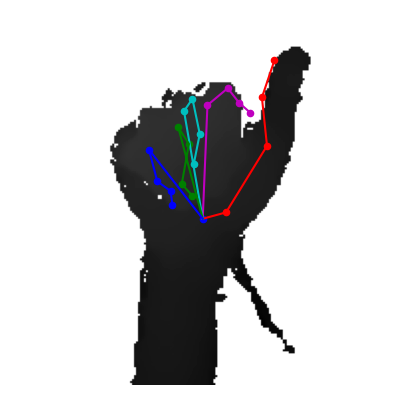
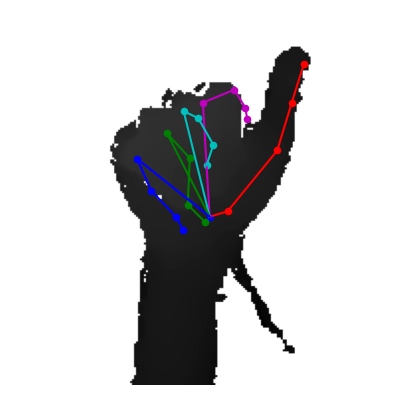
Custom dataset tf pipeline

Changed region(s): [[0.33, 0.18, 0.75, 0.6], [0.54, 0.12, 0.69, 0.33], [0.75, 0.15, 0.78, 0.18]]

diff --git a/src/datasets/custom/dataset.py b/src/datasets/custom/dataset.py
@@ -1,0 +1,63 @@
+import tensorflow as tf
+import numpy as np
+import src.utils.plots as plots
+
+from src.utils.paths import CUSTOM_DATASET_DIR
+
+
+class CustomDataset:
+
+    def __init__(self, dataset_path, batch_size, shuffle=True):
+        self.dataset_path = dataset_path
+        self.batch_size = batch_size
+        self.shuffle = shuffle
+        sequence_annotations = self._get_sequence_annotations()
+        filepaths, labels = self._get_line_annotations(sequence_annotations)
+        self.num_batches = int(len(filepaths) // batch_size)
+        self.dataset = self._build_dataset(filepaths, labels)
+
+    def _get_sequence_annotations(self):
+        path = self.dataset_path.joinpath('annotations.txt')
+        annotations = np.genfromtxt(path, delimiter=' ', dtype=str)
+        return annotations
+
+    def _get_line_annotations(self, annotations):
+        folder_names = annotations[..., 0]
+        gesture_label = annotations[..., 1]
+        file_names = []
+        file_labels = []
+        for i in range(annotations.shape[0]):
+            folder_path = self.dataset_path.joinpath(folder_names[i])
+            files = np.array(list(folder_path.iterdir()), dtype=str)
+            labels = np.full(shape=[files.shape[0]], fill_value=gesture_label[i])
+            file_names.append(files)
+            file_labels.append(labels)
+        file_names = np.concatenate(file_names)
+        file_labels = np.concatenate(file_labels)
+        return file_names, file_labels
+
+    def _build_dataset(self, images, labels):
+        ds = tf.data.Dataset.from_tensor_slices((images, labels))
+        if self.shuffle:
+            ds = ds.shuffle(buffer_size=len(images), reshuffle_each_iteration=True)
+        ds = ds.map(self._prepare_sample)
+        ds = ds.batch(self.batch_size)
+        ds = ds.prefetch(buffer_size=1)
+        return ds
+
+    def _prepare_sample(self, image_path, label):
+        image = tf.io.read_file(image_path)
+        image = tf.io.decode_image(image, channels=1, dtype=tf.uint16)
+        image.set_shape([480, 640, 1])
+        return image, label
+
+
+if __name__ == '__main__':
+    ds = CustomDataset(CUSTOM_DATASET_DIR, batch_size=4, shuffle=True)
+    iterator = iter(ds.dataset)
+    batch_images, batch_labels = next(iterator)
+
+    for image, label in zip(batch_images, batch_labels):
+        image = tf.squeeze(image)
+        plots.plot_depth_image(image)
+        print(label)

diff --git a/src/main.py b/src/main.py
@@ -5,8 +5,8 @@ from src.position_estimation import HandPositionEstimator
 
 def plot_estimation_on_custom_dataset():
     # Gesture 1
-    for j in range(3, 18):
-        estimator.inference_from_file(str(CUSTOM_DATASET_DIR.joinpath(F"20210326-230536/{j}0.png")))
+    # for j in range(3, 18):
+    #    estimator.inference_from_file(str(CUSTOM_DATASET_DIR.joinpath(F"20210326-230536/{j}0.png")))
 
     # Gesture 1, but fingers are not stretched
     # for j in range(1, 6):  # up to 21
@@ -38,9 +38,9 @@ def plot_estimation_on_custom_dataset():
     #   estimator.inference_from_file(str(CUSTOM_DATASET_DIR.joinpath(F"20210326-232751/50{j}.png")))
 
     # Alphabet
-    # for j in range(1, 11):
-    #     estimator.inference_from_file(str(CUSTOM_DATASET_DIR.joinpath(F"20210326-232751/{j}00.png")))
-    #     estimator.inference_from_file(str(CUSTOM_DATASET_DIR.joinpath(F"20210326-232751/{j}50.png")))
+    for j in range(1, 11):
+        estimator.inference_from_file(str(CUSTOM_DATASET_DIR.joinpath(F"20210326-232751/{j}00.png")))
+        estimator.inference_from_file(str(CUSTOM_DATASET_DIR.joinpath(F"20210326-232751/{j}50.png")))
 
 
 def save_estimations_on_bighand():
@@ -69,19 +69,19 @@ def get_figures_filenames(image_files):
 
 def plot_estimation_on_bighand():
     for i in range(1):
-        for j in range(1, 9):
+        for j in range(1, 5):
             estimator.inference_from_file(str(BIGHAND_DATASET_DIR.joinpath(
                 F"Subject_1/226 300/image_D000{i}{j}000.png")))
 
 
 if __name__ == '__main__':
-    dataset = 'bighand'
-    estimator = HandPositionEstimator(Camera(dataset), cube_size=200, plot_detection=False,
+    dataset = 'custom'
+    estimator = HandPositionEstimator(Camera(dataset), cube_size=230, plot_detection=False,
                                       plot_estimation=True, plot_skeleton=True)
 
     if dataset == 'bighand':
-        save_estimations_on_bighand()
-        # plot_estimation_on_bighand()
+        # save_estimations_on_bighand()
+        plot_estimation_on_bighand()
     else:
         plot_estimation_on_custom_dataset()
     # estimator.detect_live()

diff --git a/src/live.py b/src/live.py
@@ -3,29 +3,41 @@ from src.acceptance.predict import GestureAccepter
 from src.position_estimation import HandPositionEstimator
 from src.utils.camera import Camera
 from src.utils.live import generate_live_images
+import src.utils.plots as plots
 
 
-class LiveGestureRecognizer:
+class GestureRecognizer:
 
     def __init__(self, error_thresh, plot_feedback=False):
         self.plot_feedback = plot_feedback
         camera = Camera('sr305')
         self.estimator = HandPositionEstimator(camera, cube_size=230)
-        self.live_generator = generate_live_images()
         self.gesture_database = database.load_gestures()
         orientation_thres = 35
         self.gesture_accepter = GestureAccepter(self.gesture_database, error_thresh, orientation_thres)
 
-    def start(self):
-        for image_array in self.live_generator:
-            joints_xyz = self.estimator.inference_from_image(image_array, return_xyz=True)
+    def start(self, image_generator):
+        for image_array in image_generator:
+            joints_uvz = self.estimator.inference_from_image(image_array, return_xyz=True)
+            joints_xyz = self.camera.pixel_to_world(joints_uvz)
             self.gesture_accepter.accept_gesture(joints_xyz)
             # get the gesture label
-
+            gesture_index = self.gesture_accepter.predicted_gesture_idx
+            gesture_label = self.gesture_database.get_label(gesture_index)
+            print(gesture_label)
             # plot the hand position with gesture label
+            plots.plotHandSkeletonWithGesture(joints_uvz, gesture_label)
 
+def recognize_live():
+    generator = generate_live_images()
+    live_acceptance = GestureRecognizer()
+    live_acceptance.start(generator)
+
+def recognize_from_custom_dataset():
+    generator = CustomDataset()
+    live_acceptance = GestureRecognizer()
+    live_acceptance.start(generator)
 
 
 if __name__ == '__main__':
-    live_acceptance = LiveGestureRecognizer()
-    live_acceptance.start()
+    recognize_from_custom_dataset()

diff --git a/src/estimation/com_preprocessing.py b/src/estimation/com_preprocessing.py
@@ -7,6 +7,7 @@ from skimage import exposure
 from scipy import stats
 import numpy as np
 from src.utils.paths import DOCS_DIR
+from src.utils.config import OTSUS_ALLOWANCE_THRESHOLD
 
 
 class ComPreprocessor:
@@ -167,8 +168,8 @@ class ComPreprocessor:
                 print('Threshold:', threshold_depth)
                 plot_depth_image_histogram(image_above_min_numpy, True)
                 print(F"{threshold_frequency}/{peak_frequency}={float(threshold_frequency) / peak_frequency}")
-            ALLOWANCE_THRESHOLD = 0.03
-            if float(threshold_frequency) / peak_frequency < ALLOWANCE_THRESHOLD:
+
+            if float(threshold_frequency) / peak_frequency < OTSUS_ALLOWANCE_THRESHOLD:
                 # image_np[image_np > threshold_depth] = 0
                 image = tf.where(image > threshold_depth, 0, image)
                 image = tf.convert_to_tensor(image)

diff --git a/src/position_estimation.py b/src/position_estimation.py
@@ -61,7 +61,8 @@ class HandPositionEstimator:
         # weights_path = LOGS_DIR.joinpath("20210409-033315/train_ckpts/weights.20.h5")  # batch size 32
         # weights_path = LOGS_DIR.joinpath("20210409-031509/train_ckpts/weights.12.h5")  # batch size 64
         # weights_path = LOGS_DIR.joinpath("20210414-190122/train_ckpts/weights.13.h5")
-        weights_path = LOGS_DIR.joinpath("20210415-233335/train_ckpts/weights.13.h5")
+        # weights_path = LOGS_DIR.joinpath("20210415-233335/train_ckpts/weights.13.h5")
+        weights_path = LOGS_DIR.joinpath("20210417-020242/train_ckpts/weights.13.h5")
 
         model = self.network.graph()
         model.load_weights(str(weights_path))

diff --git a/src/utils/config.py b/src/utils/config.py
@@ -8,8 +8,9 @@ TEST_YOLO_CONF_THRESHOLD = .7
 
 JGRJ2O_TRAIN_BATCH_SIZE = 32
 JGRJ2O_TEST_BATCH_SIZE = 1
-JGRJ2O_LEARNING_RATE = 0.000012
-JGRJ2O_LR_DECAY = 0.93
+JGRJ2O_LEARNING_RATE = 0.000008
+JGRJ2O_LR_DECAY = 0.90
 JGRJ2O_WEIGHT_DECAY = 0.00005
 
+OTSUS_ALLOWANCE_THRESHOLD = 0.01
 
